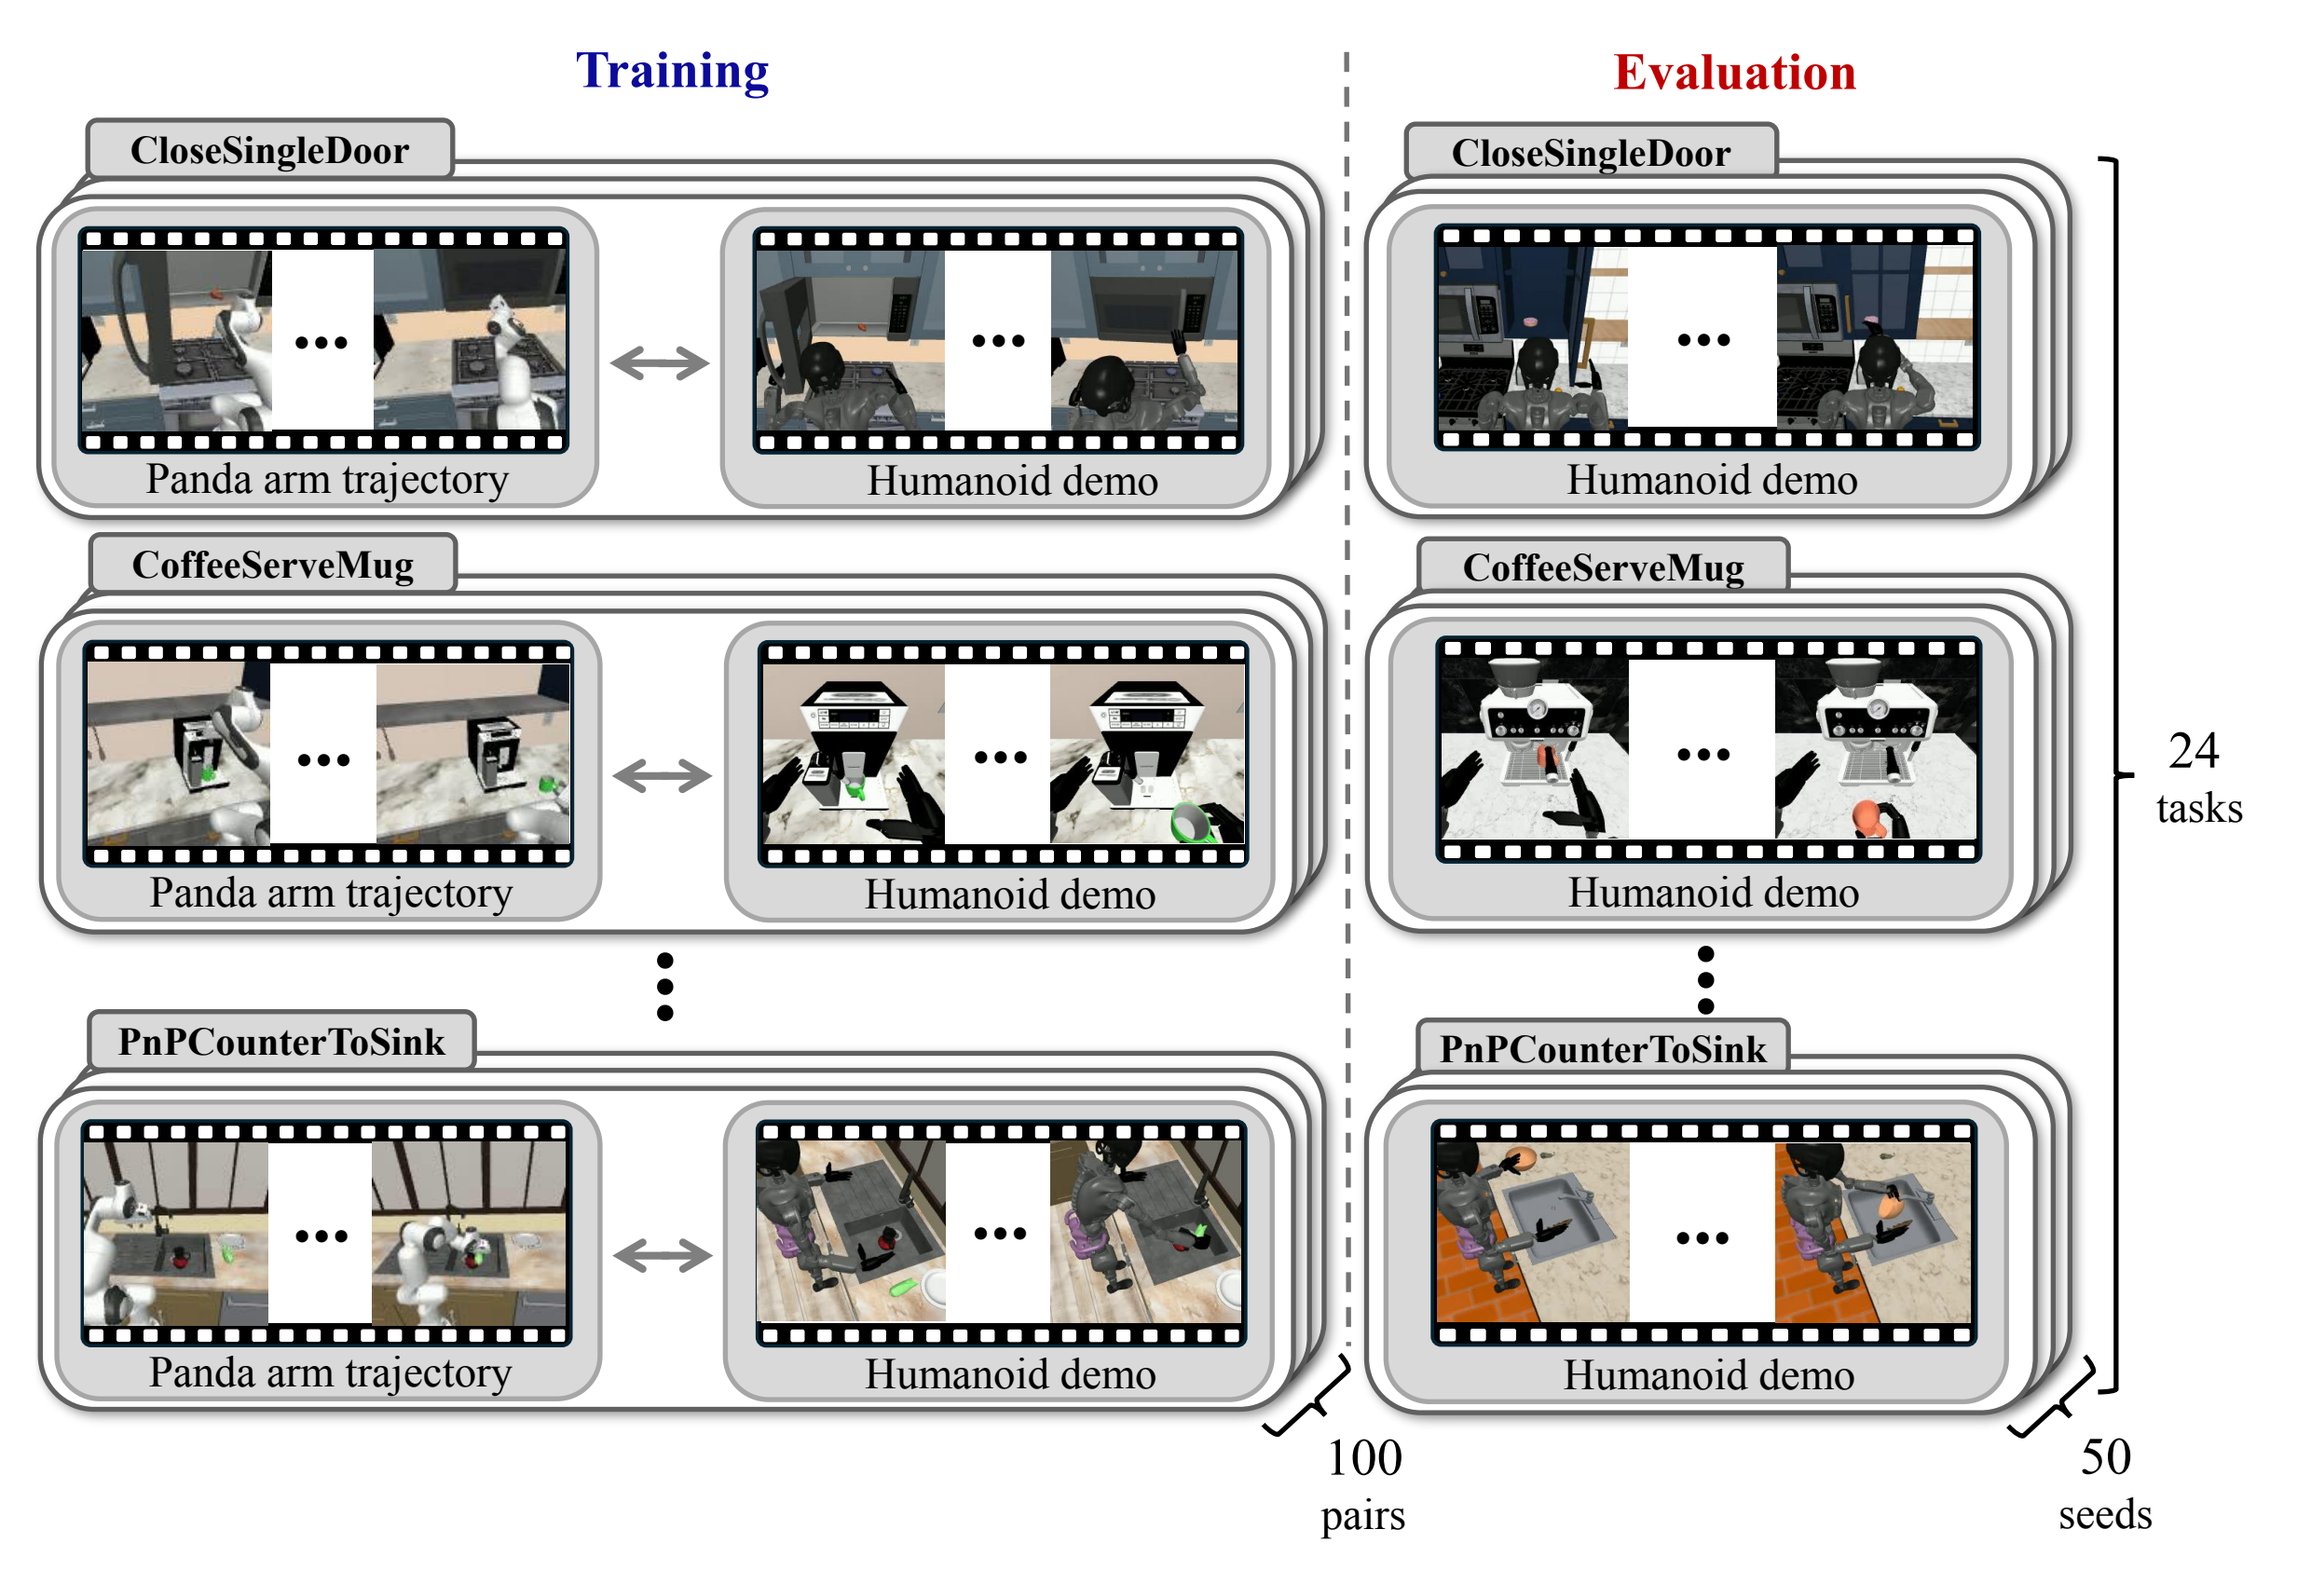
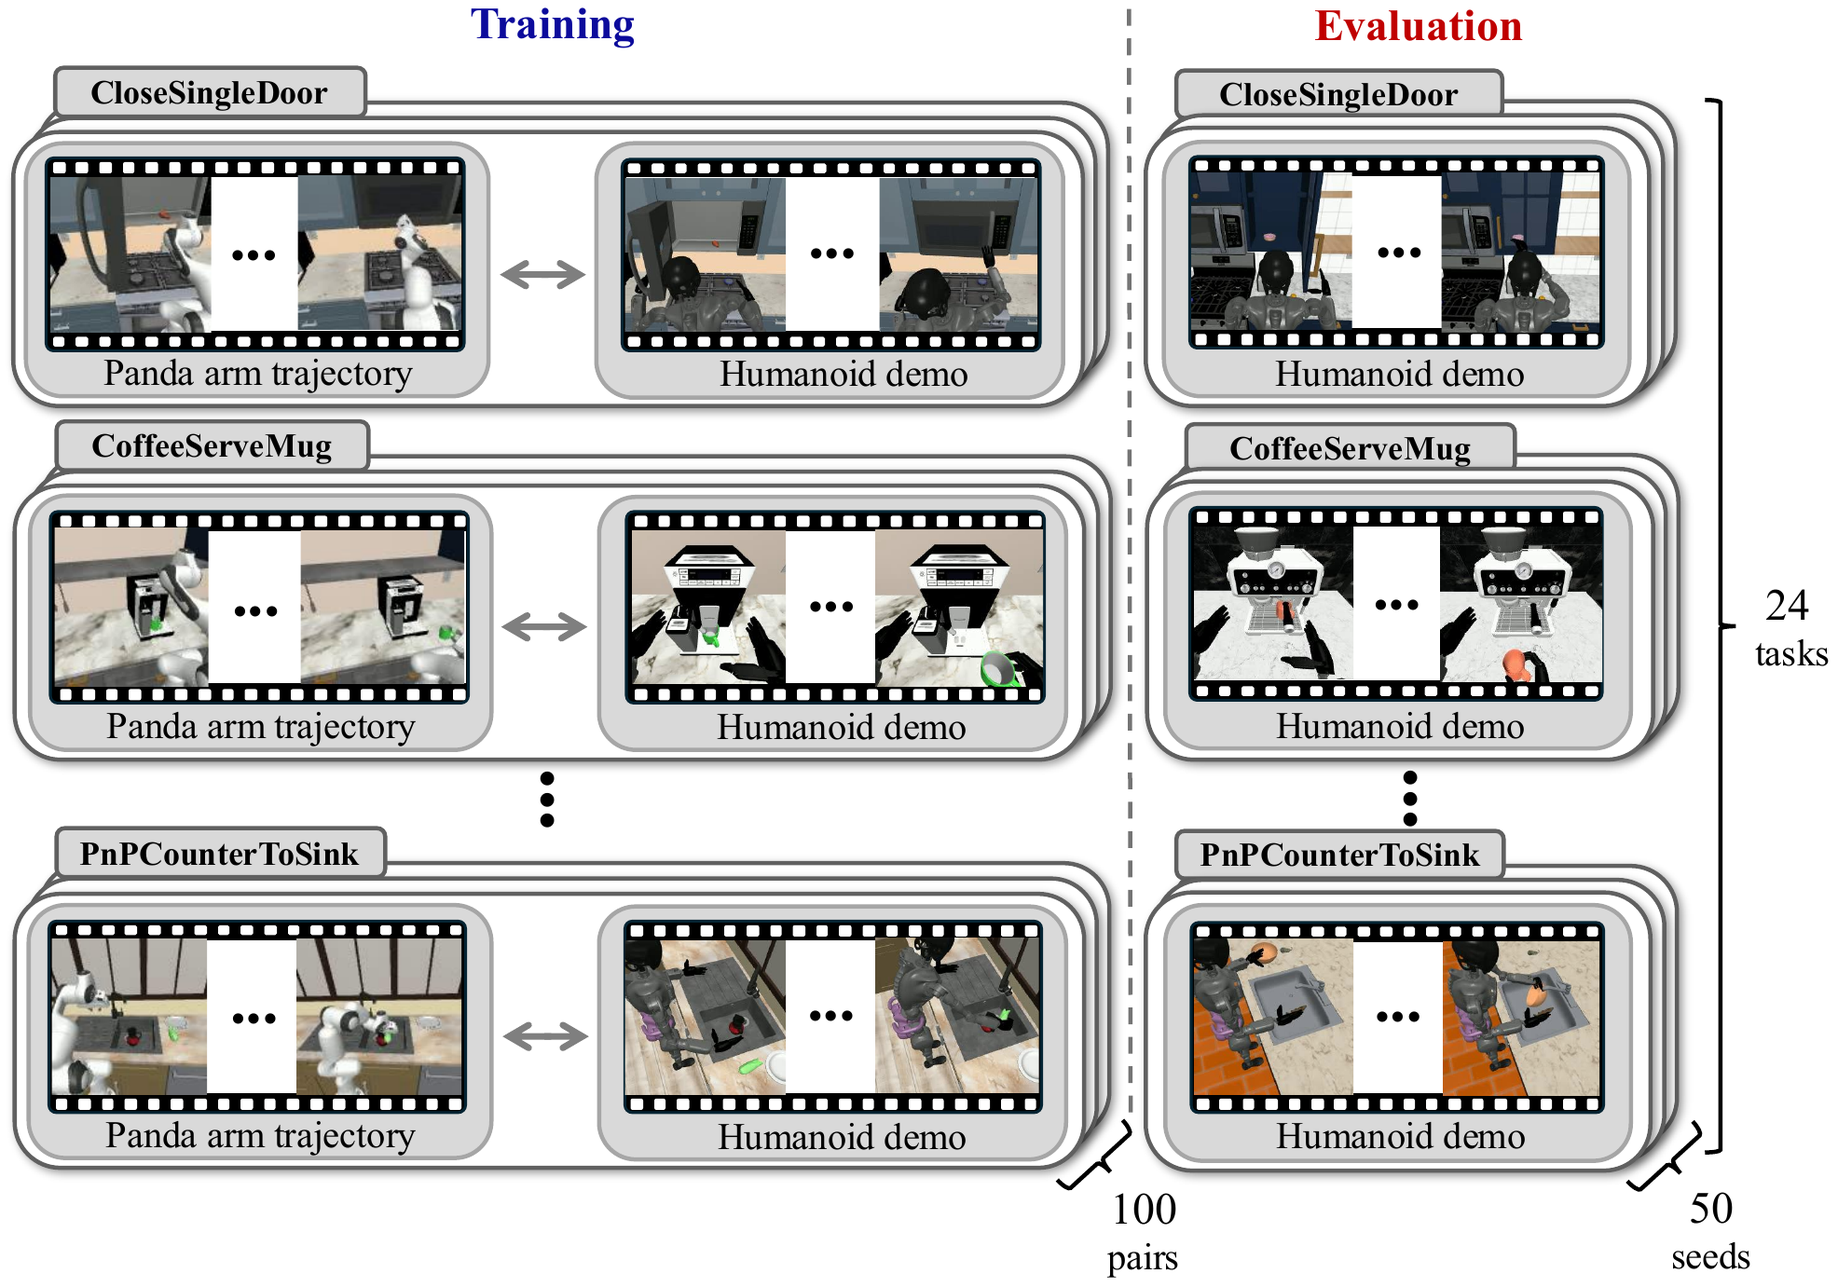
Update SeeTraceAct project page

diff --git a/seetraceact/index.html b/seetraceact/index.html
@@ -7,7 +7,7 @@
   <title>SeeTraceAct</title>
   <meta
     name="description"
-    content="SeeTraceAct is a demo-conditioned vision-language-action (VLA) framework that grounds one-shot demonstration videos through visibility-aware prediction of future end-effector traces, with the RoboCasa-DC benchmark for cross-embodiment evaluation."
+    content="SeeTraceAct (CoRL 2026) is a demo-conditioned vision-language-action (VLA) framework that grounds one-shot demonstration videos through visibility-aware prediction of future end-effector traces, with the RoboCasa-DC benchmark for cross-embodiment evaluation."
   >
 
   <style>
@@ -81,7 +81,7 @@
     .eyebrow {
       margin: 0 0 12px;
       color: var(--accent);
-      font-size: 0.85rem;
+      font-size: 1.3rem;
       font-weight: 700;
       letter-spacing: 0.12em;
       text-transform: uppercase;
@@ -313,6 +313,8 @@
   <header>
     <div class="container">
 
+      <p class="eyebrow">CoRL 2026</p>
+
       <h1>SeeTraceAct: Visibility-Aware Latent Planning from Cross-Embodiment Demonstration Videos</h1>
 
       <p class="authors">
@@ -337,8 +339,8 @@
 
       <nav class="links" aria-label="Project resources">
         <a class="button" href="https://arxiv.org/abs/2606.02745" aria-label="Paper link">Paper</a>
-        <a class="button secondary" href="https://github.com/jaehyeon-son/SeeTraceAct" aria-label="Code repository link">Code</a>
-        <a class="button secondary" href="https://github.com/jaehyeon-son/SeeTraceAct" aria-label="Dataset link">Dataset</a>
+        <a class="button" href="https://github.com/jaehyeon-son/SeeTraceAct" aria-label="Code repository link">Code</a>
+        <a class="button" href="https://huggingface.co/datasets/Sondroid/RoboCasa-DC" aria-label="Dataset link">Dataset</a>
         <!-- <a class="button secondary" href="#" aria-label="Video link">Video</a> -->
       </nav>
     </div>
@@ -371,7 +373,7 @@
 
       <div class="card">
       <p>
-        Vision-language-action models (VLAs) are promising general-purpose robot policies, but adapting them to new tasks typically requires costly task-specific teleoperation data. As an alternative, we study one-shot demo-conditioned VLAs, where a robot policy is conditioned on a single demonstration video of an unseen task. We find that existing end-to-end approaches often struggle when successful execution requires precisely localizing small target regions. To address this limitation, we propose SeeTraceAct, a demo-conditioned VLA framework that encourages precise spatial grounding through visibility-aware prediction of future end-effector traces. To enable reproducible evaluation with cross-embodiment demonstrations, we introduce and release RoboCasa-DC, a demo-conditioned extension of RoboCasa with episode-paired humanoid videos. Experiments on RoboCasa-DC and a real-world benchmark, where a Franka Panda arm is conditioned on human demonstrations, show that SeeTraceAct outperforms baselines, achieving the best success rate across all four RoboCasa-DC settings and improving real-world average success by 12.5 percentage points.
+        Vision-language-action models (VLAs) are promising general-purpose robot policies, but adapting them to new tasks typically requires costly task-specific teleoperation data. As an alternative, we study one-shot demo-conditioned VLAs, where a robot policy is conditioned on a single demonstration video of an unseen task. We find that existing end-to-end approaches often struggle when successful execution requires precisely localizing small target regions. To address this limitation, we propose SeeTraceAct, a demo-conditioned VLA framework that encourages precise spatial grounding through visibility-aware prediction of future end-effector traces. To enable reproducible evaluation with cross-embodiment demonstrations, we introduce and release RoboCasa-DC, a demo-conditioned extension of RoboCasa that pairs its robot trajectories with newly collected humanoid demonstrations. Experiments on RoboCasa-DC and a real-world benchmark, where a Franka Panda arm is conditioned on human demonstrations, show that SeeTraceAct outperforms baselines, achieving the best success rate across all four RoboCasa-DC settings and improving real-world average success by 9.5 percentage points.
       </p>
       </div>
     </section>
@@ -449,9 +451,10 @@
           <strong>same-embodiment</strong> evaluation, where videos from Panda-arm trajectories
           serve as demonstrations, and <strong>cross-embodiment</strong> evaluation, where
           teleoperated GR-1 humanoid videos act as a simulated proxy for real-world human
-          demonstrations. An evaluation split partitions the 24 tasks into seen training tasks and
-          unseen evaluation tasks; at test time, each policy is conditioned on a single
-          demonstration video paired with each evaluation seed. We publicly release RoboCasa-DC to
+          demonstrations. Each evaluation split partitions the 24 tasks into 19 seen training
+          tasks and five unseen evaluation tasks; at test time, each policy is conditioned on a single
+          demonstration video paired with each evaluation seed. We publicly release
+          <a href="https://huggingface.co/datasets/Sondroid/RoboCasa-DC">RoboCasa-DC</a> to
           support reproducible evaluation and future work on demo-conditioned policies.
         </p>
       </div>
@@ -488,31 +491,31 @@
             <tbody>
               <tr>
                 <td>Vid2Robot</td>
-                <td>21.5%</td>
-                <td>8.8%</td>
-                <td>12.6%</td>
-                <td>6.4%</td>
+                <td>17.9%</td>
+                <td>9.5%</td>
+                <td>11.4%</td>
+                <td>5.6%</td>
               </tr>
               <tr>
                 <td>UniSkill</td>
-                <td>13.3%</td>
-                <td>11.2%</td>
-                <td>10.4%</td>
-                <td>6.0%</td>
+                <td>13.0%</td>
+                <td>11.3%</td>
+                <td>11.7%</td>
+                <td>5.6%</td>
               </tr>
               <tr>
                 <td>ViVLA</td>
-                <td>14.4%</td>
-                <td>8.0%</td>
-                <td>8.9%</td>
-                <td>8.4%</td>
+                <td>14.1%</td>
+                <td>9.1%</td>
+                <td>8.8%</td>
+                <td>7.2%</td>
               </tr>
               <tr class="ours">
                 <td>SeeTraceAct (Ours)</td>
-                <td><span class="best">23.0%</span></td>
+                <td><span class="best">18.9%</span></td>
                 <td><span class="best">11.6%</span></td>
-                <td><span class="best">14.1%</span></td>
-                <td><span class="best">12.8%</span></td>
+                <td><span class="best">13.2%</span></td>
+                <td><span class="best">10.8%</span></td>
               </tr>
             </tbody>
           </table>
@@ -520,7 +523,7 @@
 
         <p class="caption">
           Success rates averaged over the five unseen tasks in each split, with 50 evaluation
-          episodes per task. In <em>Same-emb demo</em>, policies are conditioned on demonstrations
+          episodes per task, further averaged over three independent runs. In <em>Same-emb demo</em>, policies are conditioned on demonstrations
           from the same Panda-arm embodiment; in <em>Cross-emb demo</em>, policies are conditioned
           on simulated GR-1 humanoid demonstrations as a proxy for human videos.
         </p>
@@ -532,31 +535,32 @@
         <p>
           We evaluate demo-conditioned policies on real-world tabletop manipulation with a Franka
           Panda arm, conditioning each policy on a one-shot human demonstration video. Policies are
-          trained on four seen tasks and evaluated on four unseen tasks designed by recombining
-          seen skills and objects, introducing a new contact interaction, and swapping the source
-          and target objects.
+          trained on 150 robot–human episode pairs for each of four seen tasks and evaluated on
+          six unseen tasks designed by recombining seen skills and objects, transferring seen
+          skills to novel objects, and introducing a new contact interaction.
         </p>
 
         <img
           src="./assets/real_tasks.png"
-          alt="Real-world benchmark tasks: four seen tasks (Pick Coke, Stack Blocks, Stack Cups, Close Laptop) and four unseen tasks (Pick Block, Pick Cup, Press Button, Stack Blocks in Swapped Order), each with a yellow arrow indicating the desired end-effector path."
+          alt="Real-world benchmark tasks: four seen tasks (Pick Coke, Stack Blocks, Stack Cups, Close Laptop) and six unseen tasks (Pick Block, Pick Cup, Press Button, Stack Blocks in Swapped Order, Place Block in Bin, Close Kettle Lid), each with a yellow arrow indicating the desired end-effector path."
         >
 
         <p class="caption">
-          Four seen tasks (top) and four unseen tasks (bottom) in the real-world benchmark. The
+          Four seen tasks (top row) and six unseen tasks (bottom two rows) in the real-world benchmark. The
           yellow arrow indicates the desired path of the end effector.
         </p>
 
         <img
           src="./assets/real_results.png"
-          alt="Bar chart of real-world success rates: SeeTraceAct achieves the best success rate on all four unseen tasks and improves the average from 37.5% to 50.0% over the strongest baseline."
+          alt="Bar chart of real-world success rates averaged over three independent runs: SeeTraceAct matches or outperforms every baseline on all six unseen tasks and improves average success from 33.3% to 42.8% over the strongest baseline."
           style="margin-top: 24px;"
         >
 
         <p class="caption">
-          Success rates over 10 trials for each of the four unseen tasks, along with their
-          average. SeeTraceAct achieves the strongest performance across all four unseen tasks,
-          improving average success from 37.5% to 50.0% over the strongest baseline.
+          Success rates over 10 trials for each of the six unseen tasks, averaged over three
+          independent runs, along with the average across tasks. SeeTraceAct matches or
+          outperforms every baseline on all six unseen tasks, improving average success from
+          33.3% to 42.8% over the strongest baseline (+9.5 percentage points).
         </p>
       </div>
 
@@ -573,20 +577,21 @@
         </article>
 
         <article class="result-card">
-          <h3>Trace supervision is the key ingredient</h3>
+          <h3>Demonstrations and traces work together</h3>
           <p>
-            In the cross-embodiment setting, removing trace supervision drops success from 12.2%
-            to 9.4% — close to the 9.0% of the GR00T N1.5 backbone without demonstrations —
-            showing that simply adding demonstration inputs is not sufficient.
+            In the cross-embodiment setting, removing trace supervision drops success from 11.2%
+            to 9.3%. The GR00T N1.5 backbone without demonstrations achieves 8.5%, or 9.0% with
+            trace supervision, showing that neither demonstration inputs nor trace supervision
+            is sufficient on its own.
           </p>
         </article>
 
         <article class="result-card">
           <h3>Visibility awareness matters</h3>
           <p>
-            Removing the validity head causes the largest degradation among ablations (12.2% →
-            8.2%): forcing the model to regress ill-defined off-screen coordinates hurts
-            representation learning.
+            Removing the validity head lowers success from 11.2% to 8.6%, below the 9.3%
+            achieved without any trace supervision. Forcing the model to regress ill-defined
+            off-screen coordinates can hurt representation learning.
           </p>
         </article>
 
@@ -594,11 +599,16 @@
           <h3>Design choices for encoding and traces</h3>
           <p>
             Replacing the action-aware V-JEPA 2 video encoder with the backbone's SigLIP encoder
-            lowers success to 9.2%, and 3D trace supervision (10.4%) lags behind 2D image-space
-            traces, which better match the model's visual inputs.
+            lowers success to 8.1%. Adding metric depth to the 2D trace targets yields 9.7%,
+            while supervising the demonstrator's traces instead of the robot's yields 8.7%;
+            both lag behind visibility-aware 2D image-space supervision (11.2%).
           </p>
         </article>
       </div>
+      <p class="caption">
+        Ablation success rates are averaged over the category-balanced and precision-sensitive
+        cross-embodiment splits, and further averaged over three independent runs.
+      </p>
     </section>
 
     <!-- <section aria-labelledby="video-heading">
@@ -626,11 +636,11 @@
       <h2 id="citation-heading">Citation</h2>
 
       <div class="card">
-      <pre><code>@article{son2026seetraceact,
-  title   = {SeeTraceAct: Visibility-Aware Latent Planning from Cross-Embodiment Demonstration Videos},
-  author  = {Son, Jaehyeon and Kim, Junhyun and Kam, Kyle and Coholich, Jeremiah and Kim, Seok Joon and Kim, Jinhoo and Kim, Chris Dongjoo and Cho, Jaemin and Fox, Dieter and Kira, Zsolt},
-  journal = {arXiv preprint},
-  year    = {2026}
+      <pre><code>@inproceedings{son2026seetraceact,
+  title     = {SeeTraceAct: Visibility-Aware Latent Planning from Cross-Embodiment Demonstration Videos},
+  author    = {Son, Jaehyeon and Kim, Junhyun and Kam, Kyle and Coholich, Jeremiah and Kim, Seok Joon and Kim, Jinhoo and Kim, Chris Dongjoo and Cho, Jaemin and Fox, Dieter and Kira, Zsolt},
+  booktitle = {Conference on Robot Learning (CoRL)},
+  year      = {2026}
 }</code></pre>
       </div>
     </section>
